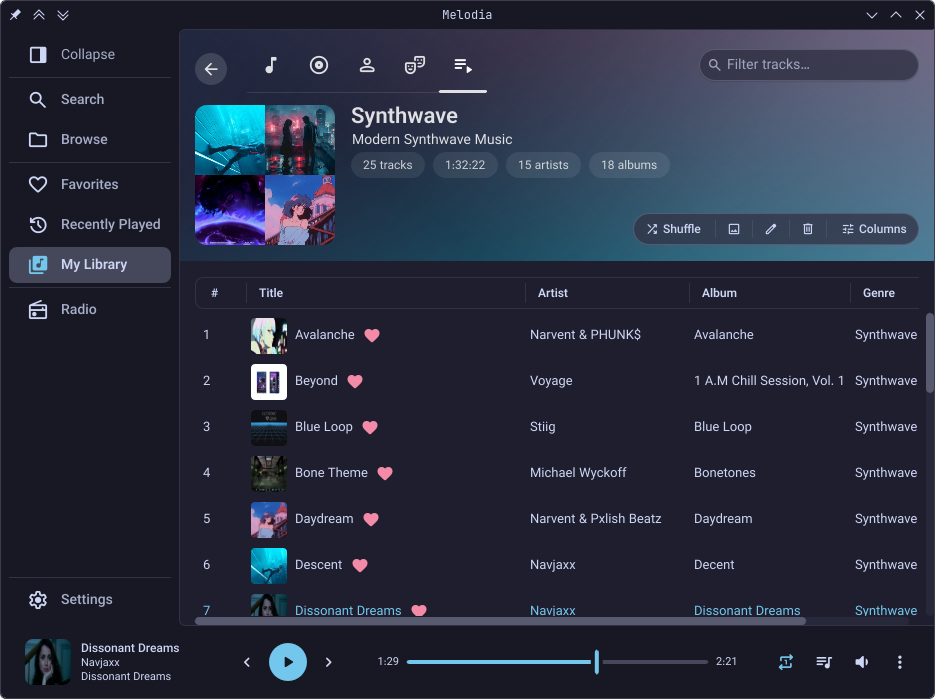
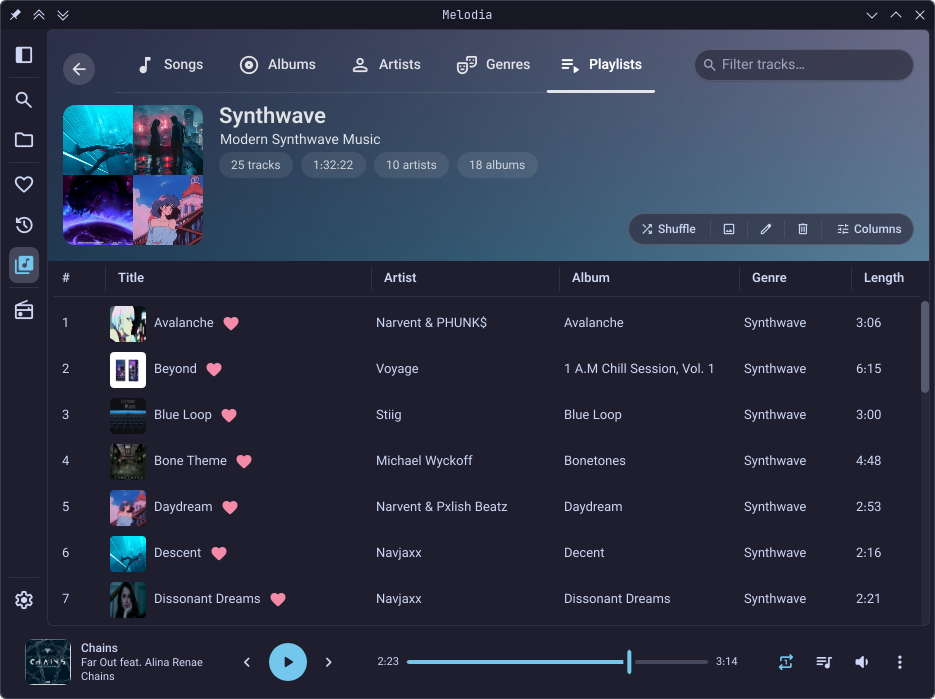
docs(readme): the retaken screenshots, with Now Playing and Settings in place of Browse, Favorites and the station page

diff --git a/README.md b/README.md
@@ -19,31 +19,30 @@ Six theme families, light and dark variants, configurable accents, and Material 
 
 <table>
   <tr>
-    <td width="50%"><img src="assets/screenshots/albums.png" alt="My Library on the Albums tab"><br><sub><b>My Library</b>: one page and five tabs, here over a virtualized cover grid.</sub></td>
-    <td width="50%"><img src="assets/screenshots/playlist-detail.png" alt="A playlist opened inside My Library"><br><sub><b>Detail in place</b>: opening a playlist grows the band into its banner, tabs still in reach.</sub></td>
+    <td width="50%"><img src="assets/screenshots/songs.png" alt="My Library on the Songs tab"><br><sub><b>My Library</b>: one page and five tabs, here on Songs with sortable, toggleable columns.</sub></td>
+    <td width="50%"><img src="assets/screenshots/album.png" alt="My Library on the Albums tab"><br><sub><b>Albums</b>: a virtualized cover grid, sorted by name, year, or artist.</sub></td>
   </tr>
   <tr>
+    <td><img src="assets/screenshots/playlist-detail.png" alt="A playlist opened inside My Library"><br><sub><b>Detail in place</b>: opening a playlist grows the band into its banner, tabs still in reach.</sub></td>
     <td><img src="assets/screenshots/search.png" alt="Search view"><br><sub><b>Search</b>: a top-result card over songs, albums, artists, and genres.</sub></td>
-    <td><img src="assets/screenshots/browse.png" alt="File-system browse view"><br><sub><b>Browse</b>: navigate the library by folder, as a list or a grid of cards.</sub></td>
   </tr>
 </table>
 
-### Favorites
+### Now Playing
 
 <table>
   <tr>
-    <td><img src="assets/screenshots/favorites.png" alt="Favorites view"><br><sub><b>Favorites</b>: an artwork mosaic hero over tabs for songs, most played, and favorite artists. Recently Played is built the same way.</sub></td>
+    <td width="50%"><img src="assets/screenshots/nowplaying-upnext.png" alt="Now Playing with the Up Next list"><br><sub><b>Up Next</b>: the queue beside the artwork, the file's format, and the visualizer.</sub></td>
+    <td width="50%"><img src="assets/screenshots/nowplaying-lyrics.png" alt="Now Playing with a timed lyrics sheet"><br><sub><b>Lyrics</b>: the header switch trades Up Next for a timed sheet that follows the song line by line.</sub></td>
   </tr>
 </table>
 
-### Internet Radio
-
-Off until you switch it on, under Settings ▸ Services ▸ Radio.
+### Internet Radio and Settings
 
 <table>
   <tr>
-    <td width="50%"><img src="assets/screenshots/radio-browse.png" alt="Radio browse view"><br><sub><b>Browse</b>: a worldwide directory, narrowed by country, language, genre, codec, or bitrate.</sub></td>
-    <td width="50%"><img src="assets/screenshots/radio-detail.png" alt="Radio station page"><br><sub><b>Station page</b>: logo, homepage, format, bitrate, votes, and what the station has announced this session.</sub></td>
+    <td width="50%"><img src="assets/screenshots/radio-browse.png" alt="Radio browse view"><br><sub><b>Internet Radio</b>: a worldwide directory, narrowed by country, language, genre, codec, or bitrate. Off until you switch it on, under Settings ▸ Services ▸ Radio.</sub></td>
+    <td width="50%"><img src="assets/screenshots/settings.png" alt="Settings on the Interface tab"><br><sub><b>Settings</b>: five tabs and a search box, here on the theme, variant, accent, and backdrop.</sub></td>
   </tr>
 </table>
 
@@ -53,8 +52,8 @@ Shrink the window past a threshold and the full UI collapses into a compact mini
 
 <table>
   <tr>
-    <td width="60%" valign="top"><img src="assets/screenshots/miniplayer_rectangle.png" alt="Horizontal mini-player strip" width="360"><br><sub><b>Horizontal strip</b>: the most compact form.</sub></td>
-    <td width="40%" valign="top"><img src="assets/screenshots/miniplayer_square.png" alt="Square mini-player widget with up-next list" width="240"><br><sub><b>Square widget</b>: grows an up-next list when tall enough.</sub></td>
+    <td width="60%" valign="top"><img src="assets/screenshots/miniplayer-rectangle.png" alt="Horizontal mini-player strip" width="360"><br><sub><b>Horizontal strip</b>: the most compact form.</sub></td>
+    <td width="40%" valign="top"><img src="assets/screenshots/miniplayer-square.png" alt="Square mini-player widget with up-next list" width="240"><br><sub><b>Square widget</b>: grows an up-next list when tall enough.</sub></td>
   </tr>
 </table>
 
